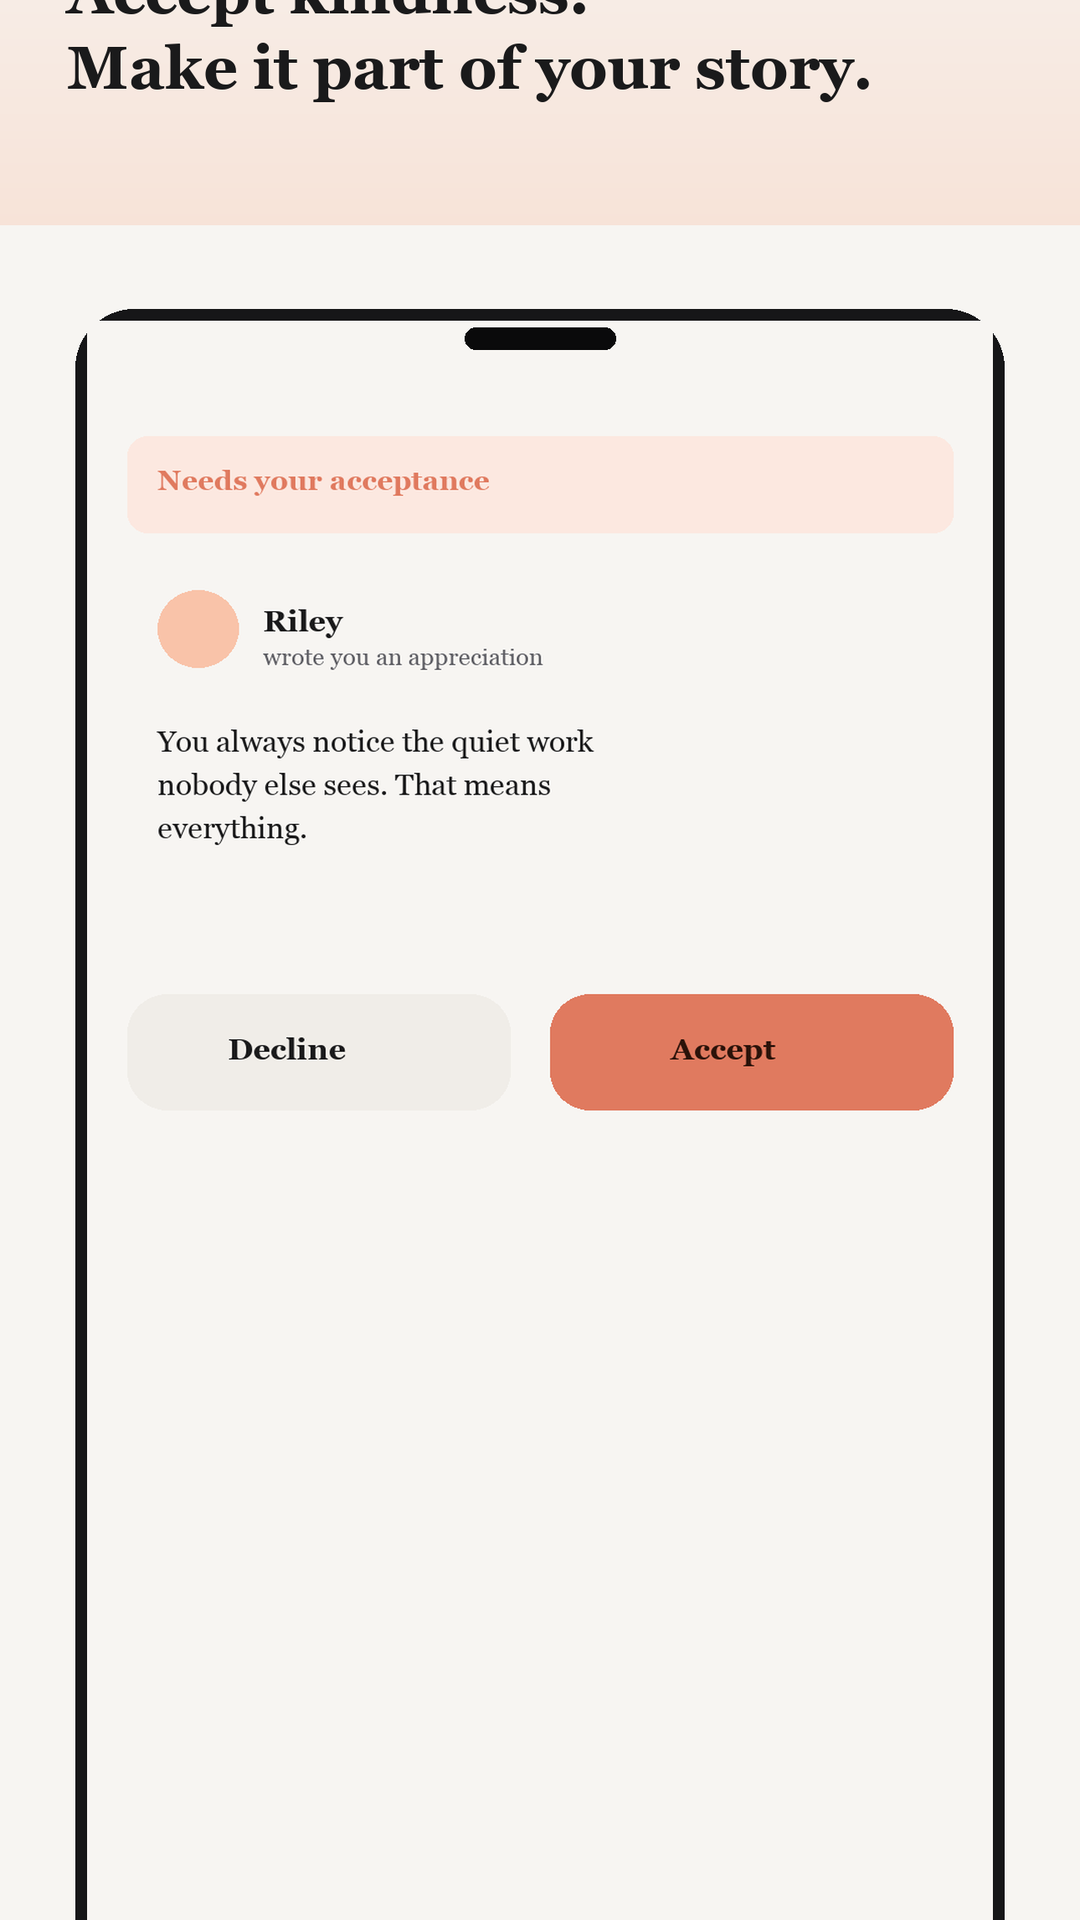
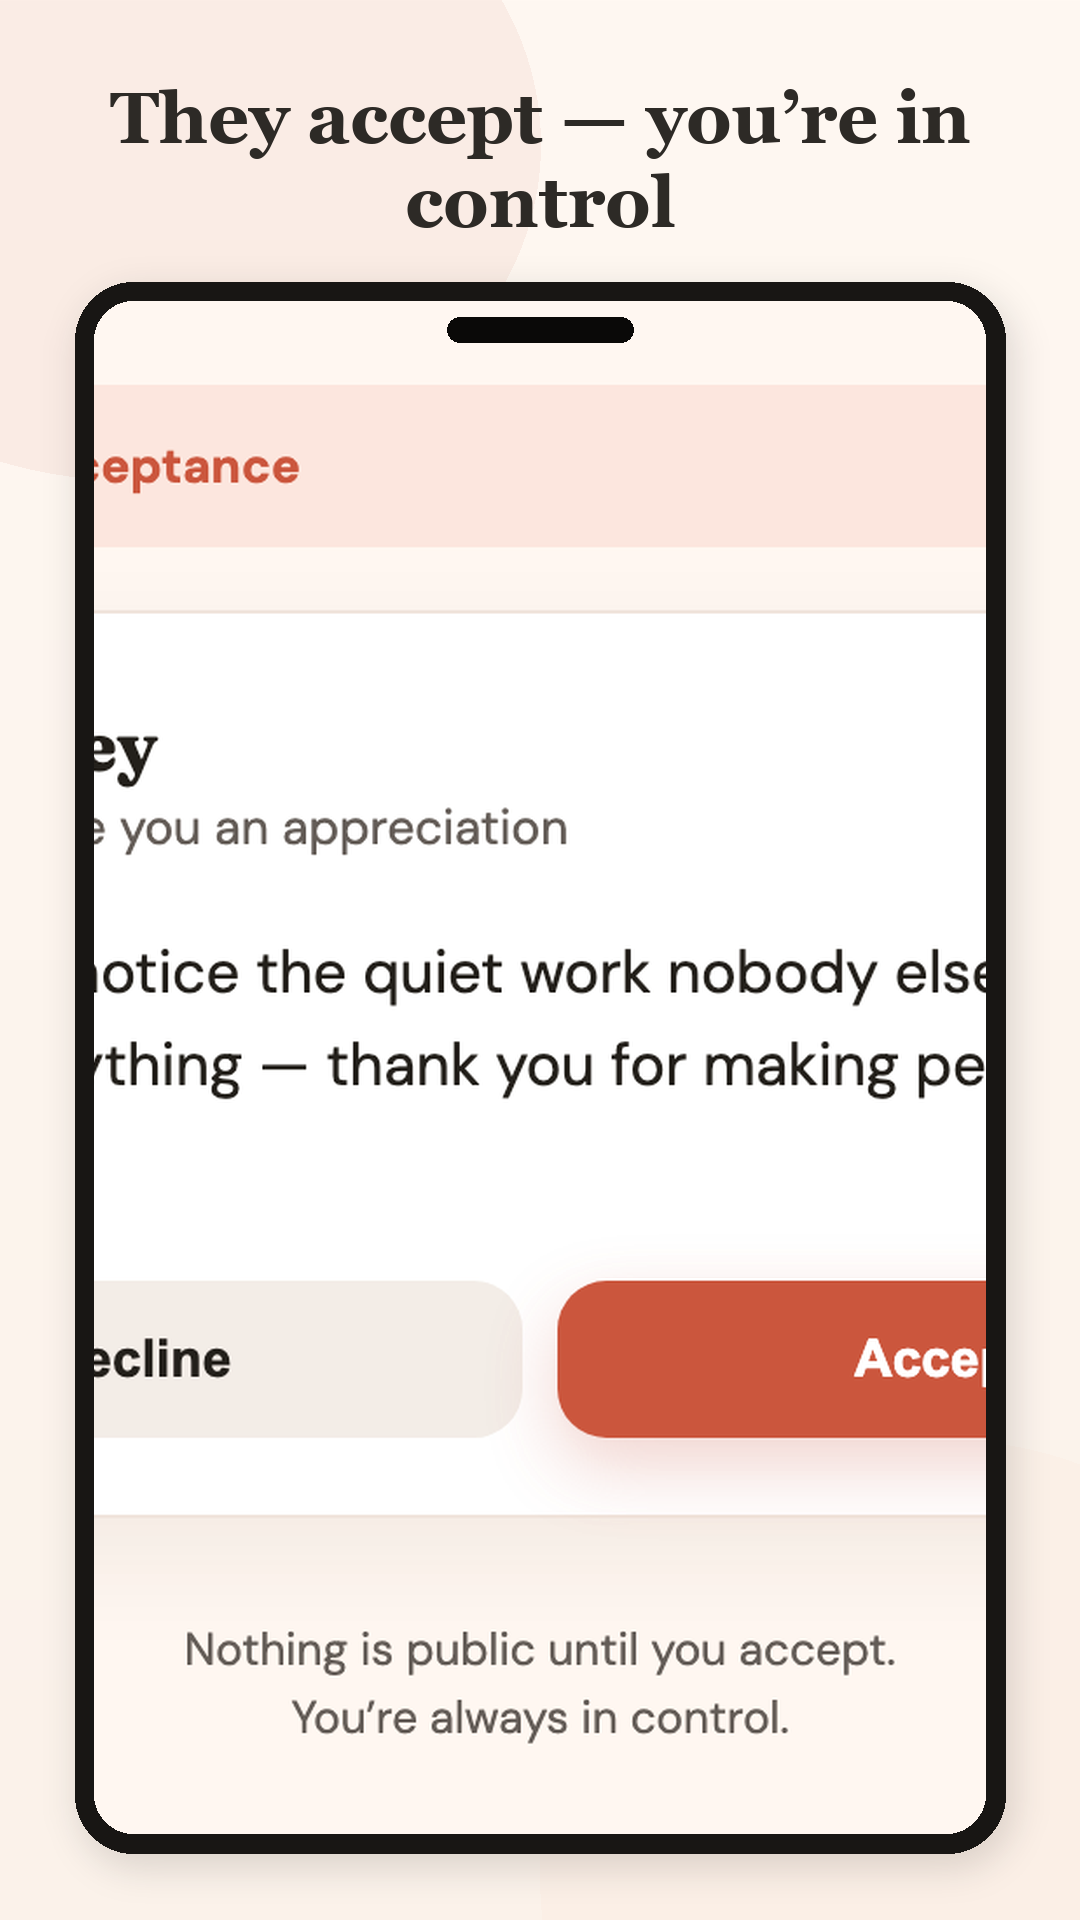
Refresh Play listing screenshots to match the live web UI.
Replace crude mockups with captures of the real landing/sign-in experience and product screens styled like openthanks.com, for phone plus 7-inch and 10-inch tablets.

diff --git a/PlayStore/listing/README.md b/PlayStore/listing/README.md
@@ -79,7 +79,6 @@ Social / Lifestyle (pick the closest Play categories, e.g. **Social** primary)
 - Graphic for TV / Wear (only if you target those)
 
 ## Notes
-- Phone screenshots are adapted from the iOS App Store set to Play’s 9:16 limit (iPhone shots were taller than 2:1).
-- Tablet screenshots use the same scenes composited for 7" (1200×1920) and 10" (1600×2560) slots.
+- Phone and tablet shots are rebuilt from the **live OpenThanks web UI** (landing, sign-in) plus product screens that match site colors/typography (feed, compose, accept).
 - Icon is a full square — do **not** add your own rounded corners or drop shadow.
 - After first AAB upload, complete **Data safety** using the same disclosures as the privacy policy.
